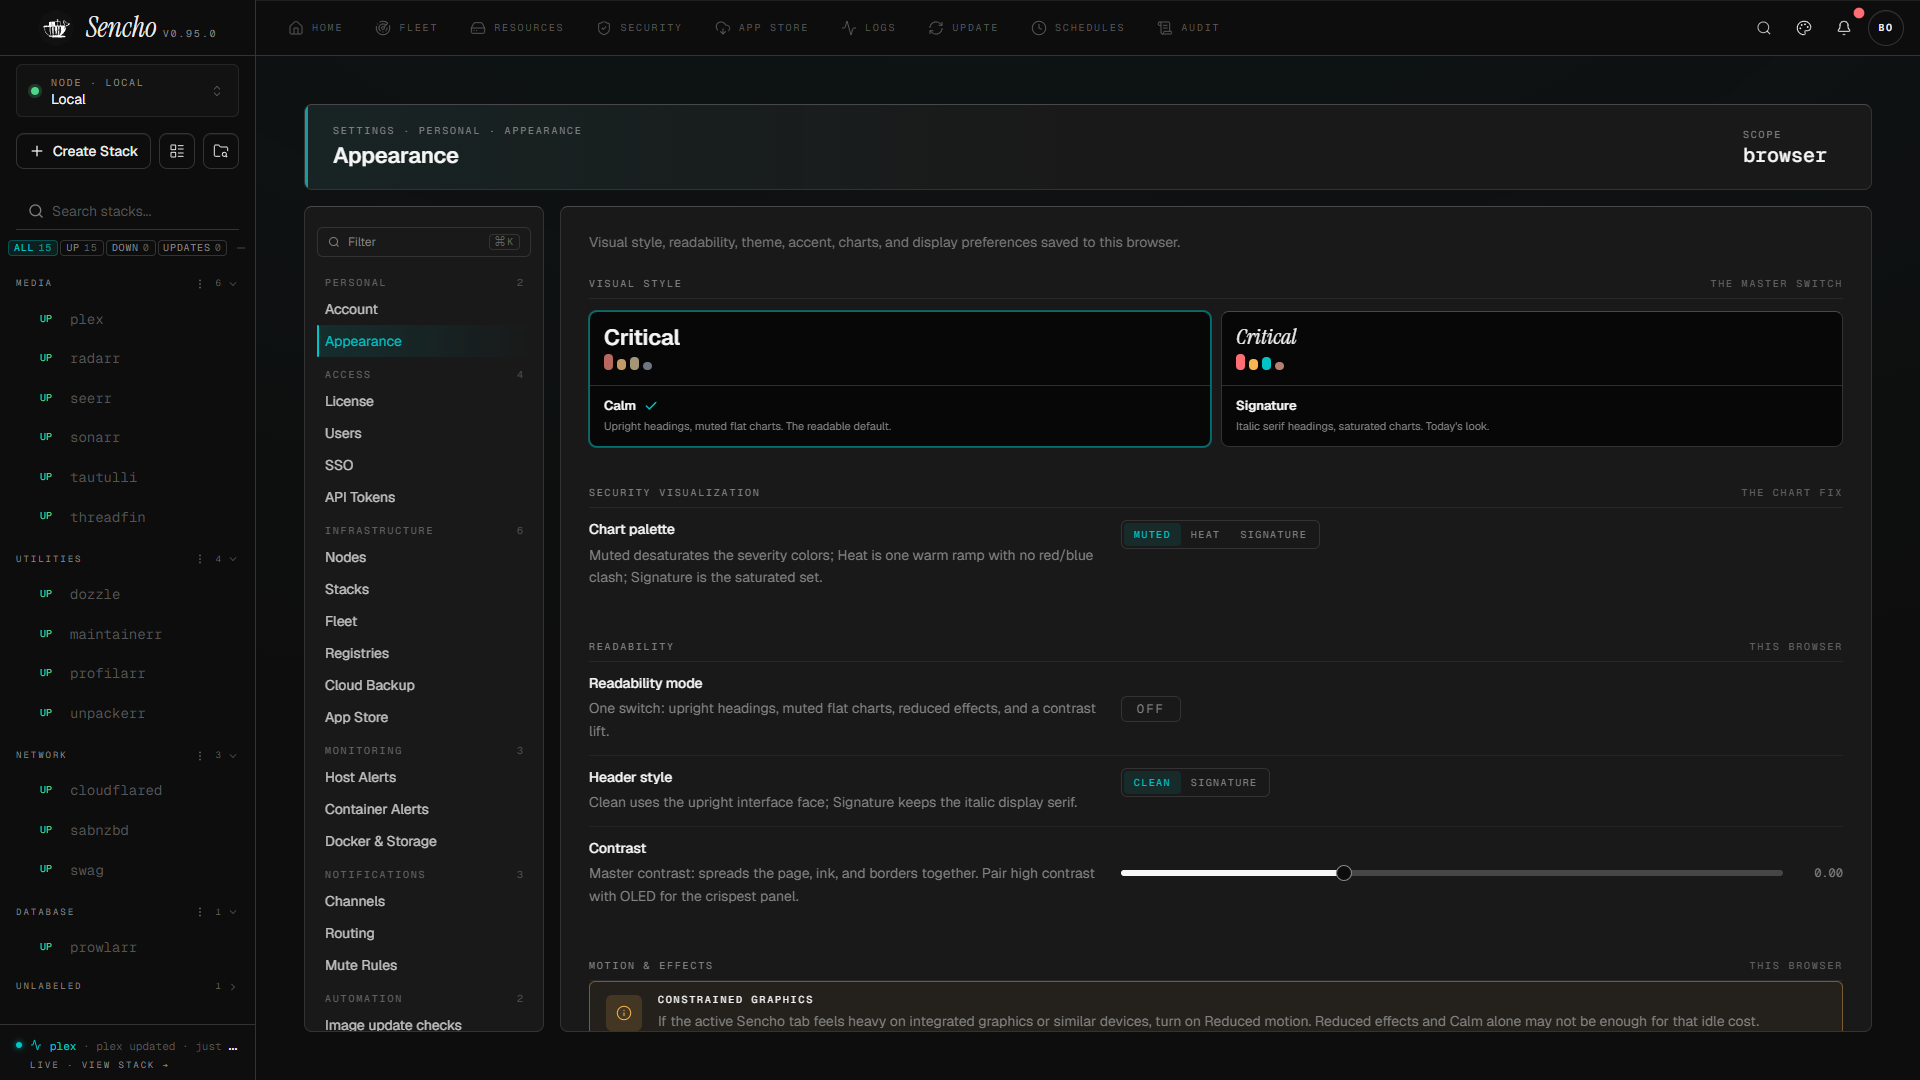
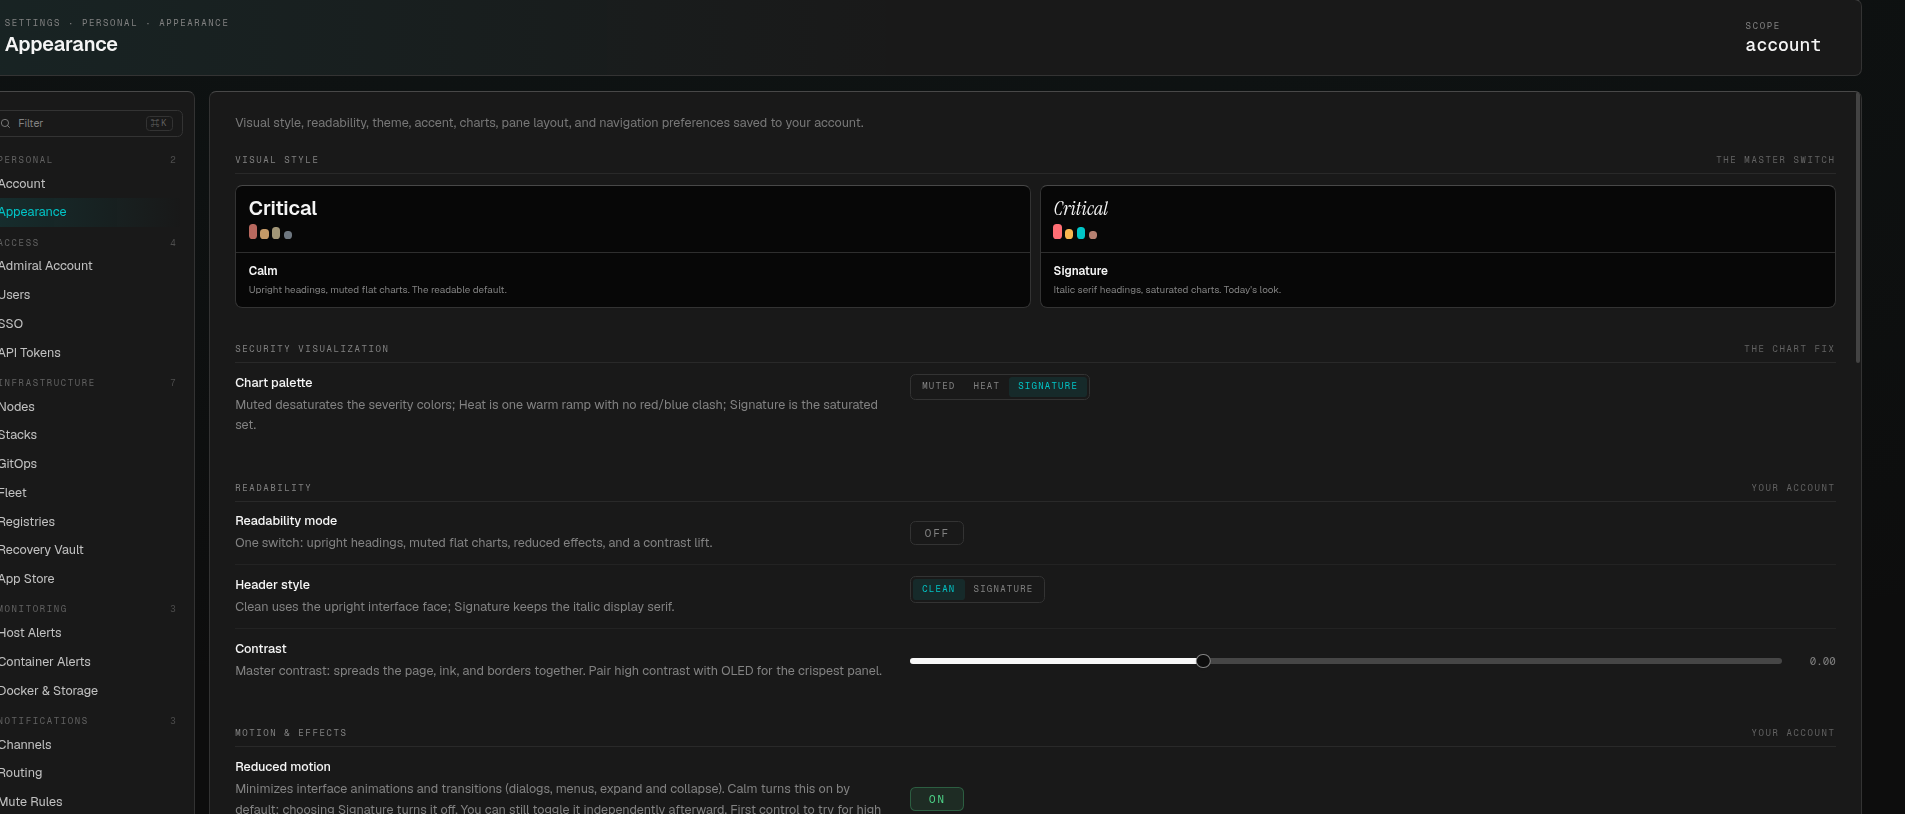
fix(settings): make appearance reset match the fresh-install chart default
Reset to default was still applying the Calm preset, which put the muted
chart palette back. It now restores upright headings, reduced effects, and
the Signature chart palette, and the appearance screenshots match that look.

diff --git a/frontend/src/components/settings/__tests__/AppearanceSection.test.tsx b/frontend/src/components/settings/__tests__/AppearanceSection.test.tsx
@@ -169,16 +169,18 @@ describe('AppearanceSection', () => {
         expect(screen.getByRole('button', { name: /readable default/i }).getAttribute('aria-pressed')).toBe('false');
     });
 
-    it('reset to default restores Calm and locks while readability is on', () => {
+    it('reset to default restores the fresh-install look and locks while readability is on', () => {
         render(<AppearanceSection onResetAppearance={() => {}} onResetNavigation={() => {}} />);
         fireEvent.click(screen.getByRole('radio', { name: 'Heat' }));
         expect(document.documentElement.dataset.chartStyle).toBe('heat');
 
         fireEvent.click(screen.getByRole('button', { name: 'Reset to default' }));
         expect(document.documentElement.dataset.headings).toBe('clean');
-        expect(document.documentElement.dataset.chartStyle).toBe('muted');
+        expect(document.documentElement.dataset.chartStyle).toBe('signature');
+        expect(document.documentElement.dataset.effects).toBe('reduced');
         expect(document.documentElement.dataset.motion).toBe('reduced');
-        expect(screen.getByRole('button', { name: /readable default/i }).getAttribute('aria-pressed')).toBe('true');
+        expect(screen.getByRole('button', { name: /readable default/i }).getAttribute('aria-pressed')).toBe('false');
+        expect(screen.getByRole('button', { name: /Today's look/i }).getAttribute('aria-pressed')).toBe('false');
 
         fireEvent.click(screen.getByRole('switch', { name: 'Readability mode' }));
         expect((screen.getByRole('button', { name: 'Reset to default' }) as HTMLButtonElement).disabled).toBe(true);

diff --git a/frontend/src/hooks/use-theme.ts b/frontend/src/hooks/use-theme.ts
@@ -411,6 +411,18 @@ export function useTheme() {
         });
         notifyPreferenceWrite('appearance', ['visualStyle', 'headingStyle', 'chartStyle', 'reducedEffects', 'reducedMotion']);
     }, []);
+    // The fresh-install look: Calm headings and effects, Signature charts.
+    // That combination matches neither preset card.
+    const resetVisualDefaults = useCallback(() => {
+        setState({
+            visualStyle: DEFAULT_STATE.visualStyle,
+            headingStyle: DEFAULT_STATE.headingStyle,
+            chartStyle: DEFAULT_STATE.chartStyle,
+            reducedEffects: DEFAULT_STATE.reducedEffects,
+            reducedMotion: DEFAULT_STATE.reducedMotion,
+        });
+        notifyPreferenceWrite('appearance', ['visualStyle', 'headingStyle', 'chartStyle', 'reducedEffects', 'reducedMotion']);
+    }, []);
     const setHeadingStyle = useCallback((headingStyle: HeadingStyle) => { setState({ headingStyle }); notifyPreferenceWrite('appearance', ['headingStyle']); }, []);
     const setChartStyle = useCallback((chartStyle: ChartStyle) => { setState({ chartStyle }); notifyPreferenceWrite('appearance', ['chartStyle']); }, []);
     const setReducedEffects = useCallback((reducedEffects: boolean) => { setState({ reducedEffects }); notifyPreferenceWrite('appearance', ['reducedEffects']); }, []);
@@ -443,6 +455,7 @@ export function useTheme() {
         setMonoFont,
         setTypeScale,
         setVisualStyle,
+        resetVisualDefaults,
         setHeadingStyle,
         setChartStyle,
         setReducedEffects,

diff --git a/frontend/src/components/settings/AppearanceSection.tsx b/frontend/src/components/settings/AppearanceSection.tsx
@@ -222,7 +222,7 @@ export function AppearanceSection({
         theme, accent, borderBoost, glow, contrast, uiFont, monoFont, typeScale,
         headingStyle, chartStyle, reducedEffects, reducedMotion, readability,
         setTheme, setAccent, setBorderBoost, setGlow, setContrast, setUiFont, setMonoFont, setTypeScale,
-        setVisualStyle, setHeadingStyle, setChartStyle, setReducedEffects, setReducedMotion, setReadability,
+        setVisualStyle, resetVisualDefaults, setHeadingStyle, setChartStyle, setReducedEffects, setReducedMotion, setReadability,
     } = useTheme();
     const accentLabel = ACCENTS.find((a) => a.id === accent)?.label ?? 'Cyan';
     // Readability is a sticky master: it forces the calm resolution at apply time
@@ -373,7 +373,7 @@ export function AppearanceSection({
 
                 <SettingsActions>
                     <SettingsSecondaryButton
-                        onClick={() => setVisualStyle('calm')}
+                        onClick={resetVisualDefaults}
                         disabled={readability}
                     >
                         Reset to default
